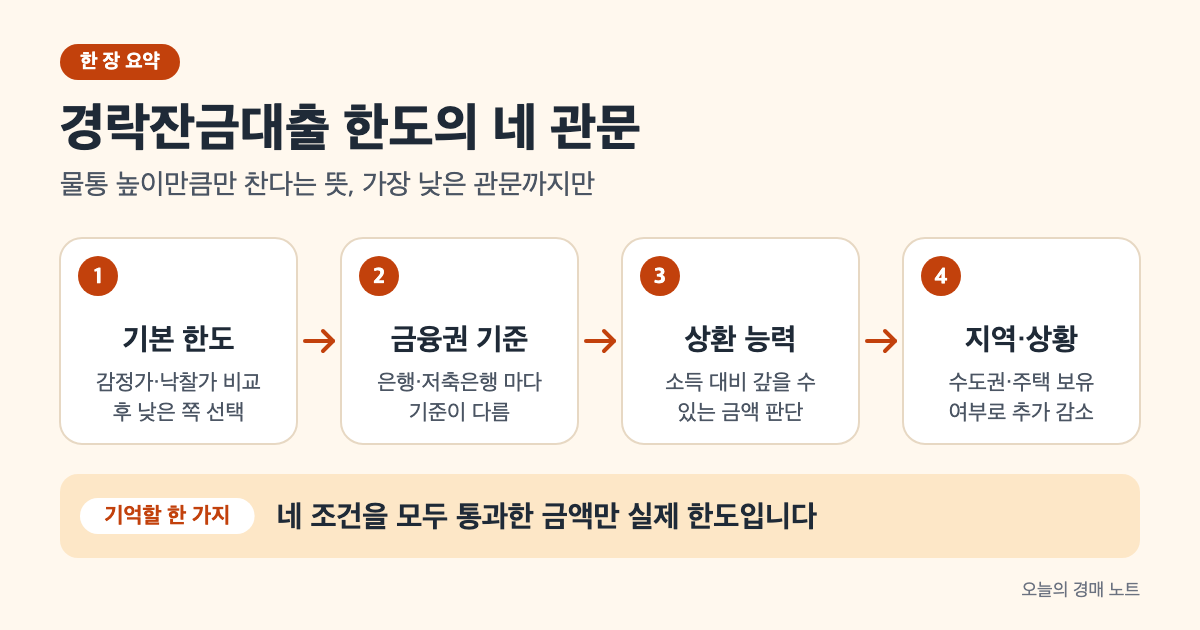
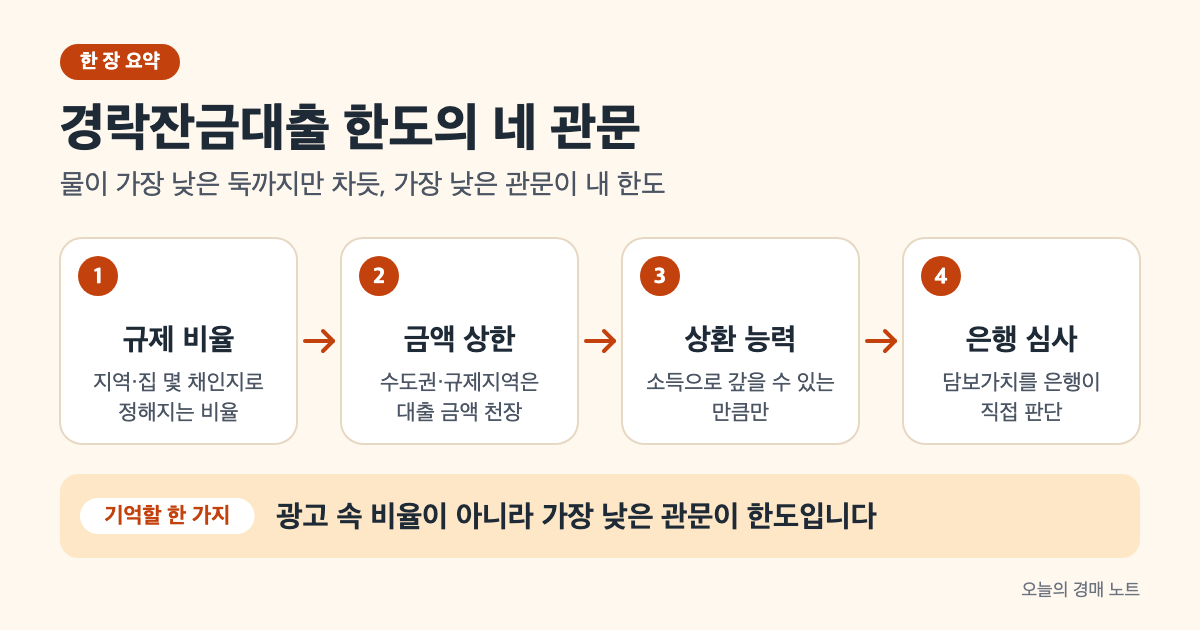
[가이드] 경락잔금대출 한도: 2025년 6·27·10·15 조치 이후 기준으로 바로잡기
공개 중인 글의 규제 수치가 낡았고(규제지역 무주택 LTV 70% → 현재 40%, 시가별 주담대 한도 누락),
출처 링크가 해당 수치를 담지 않은 문서를 가리키고 있었다. 금융위원회·정책브리핑 원문으로 다시 확인해 전면 수정.

diff --git a/content/guide/auction-loan-limit/index.md b/content/guide/auction-loan-limit/index.md
@@ -2,131 +2,94 @@
 title: "경락잔금대출 한도는 80%가 아닙니다"
 author: "rich-batch"
 date: 2026-09-19
-lastmod: 2026-09-19
+lastmod: 2026-10-11
 draft: false
 volatile: true
 categories: ["경매 대출·세금"]
-tags: ["경락잔금대출", "LTV", "DSR", "한도계산", "낙찰가"]
-description: "경락잔금대출은 낙찰가의 80%까지 가능하다고 알려졌지만, 실제 한도는 감정가·LTV·DSR·지역 규제의 교집합입니다."
+tags: ["경락잔금대출", "LTV", "DSR", "스트레스 DSR", "규제지역"]
+description: "경락잔금대출 한도는 정해진 비율 하나가 아니라 LTV·금액 상한·DSR·금융회사 심사 가운데 가장 낮은 값입니다. 2025년 6·27, 10·15 조치 이후 기준으로 봅니다."
 cover:
   image: "eli5-overview.png"
-  alt: "경락잔금대출 한도를 정하는 네 가지 기준 (감정가 60%, 낙찰가 80%, LTV 규제, DSR)을 동시에 확인하는 흐름"
-  caption: "최종 한도는 이 네 조건 중 가장 낮은 값으로 결정됩니다"
+  alt: "규제 비율, 금액 상한, 상환 능력, 금융회사 심사 네 관문을 차례로 지나며 대출 가능 금액이 줄어드는 흐름도"
+  caption: "네 관문 가운데 가장 낮은 곳이 내 한도가 됩니다"
 showToc: true
 TocOpen: true
 ---
 
-경락잔금대출은 낙찰가의 80%까지 받을 수 있다는 말이 많습니다. 하지만 입찰 전에 이 수치에만 의존하면 낙찰 후 자금 부족으로 보증금을 날릴 수 있습니다. 2026년 스트레스 DSR 3단계와 LTV 규제가 동시 적용되면서 실제 한도는 이론적 한도보다 훨씬 낮기 때문입니다.
+경락잔금대출 한도를 "낙찰가의 몇 %"로 기억하고 입찰하면 위험합니다. 실제 한도는 정부 규제 세 가지(LTV, 수도권·규제지역 금액 상한, DSR)와 금융회사 자체 심사 가운데 **가장 낮은 값**으로 정해지고, 이 규제는 2025년 6월과 10월에 크게 바뀌었거든요. 특히 서울 전역은 2025년 10월부터 규제지역이라 무주택자도 LTV 40%가 상한입니다([금융위원회, 2025.10.15](https://www.fsc.go.kr/po010101/85432)).
 
-경락잔금대출의 한도는 "감정가 60%"([금융위 LTV 규제](https://www.fsc.go.kr/no010101/86606))와 "낙찰가 80%"([금융회사 평가](https://www.fsc.go.kr/no010101/86606)) 중 낮은 금액을 시작점으로, 차주의 소득·기존 부채·주택 보유 상황·지역 규제가 모두 반영된 후에 결정됩니다. 이 글의 수치는 2026년 9월 19일 기준 공식 자료로 확인했습니다.
+이 글은 2026년 10월 11일 기준 금융위원회·정책브리핑 원문으로 확인했습니다. 경매로 집을 사는 대출이라 일반 주택구입목적 주담대와 같은 규제를 받는다는 전제로 설명하는데, 공식 자료가 경락잔금대출을 따로 언급하지는 않으니 최종 한도는 대출받을 금융회사에서 확인해야 합니다.
 
 > **핵심 요약**
-> - 한도 상한 = MIN(감정가 × 60%, 낙찰가 × 80%)([금융위 LTV 규제](https://www.fsc.go.kr/no010101/86606))
-> - 실제 한도는 여기서 LTV·DSR·지역별 제한을 다시 적용하면 1~2억 원 감소 가능
-> - 2026년 스트레스 DSR은 기존 금리에 1.5~3%([금융위](https://www.fsc.go.kr/no010101/86606)) 추가해 계산, 대출 가능액이 연소득 1억 기준 1억 원 이상 줄어듦
+> - 한도 = LTV, 금액 상한, DSR, 금융회사 심사 중 가장 낮은 값입니다.
+> - 서울 전역·경기 12곳 등 규제지역은 무주택자 LTV 40%, 주담대는 시가에 따라 최대 6억·4억·2억 원입니다([금융위원회](https://www.fsc.go.kr/po010101/85432)).
 
-## 기본 공식: 감정가 60% vs 낙찰가 80%
+## 첫째 관문: LTV는 지역과 주택 수로 갈린다
 
-금융회사는 경락잔금대출의 한도를 정할 때 두 가지 기준을 동시에 봅니다. 하나는 감정가 기준 60%([금융위 정책](https://www.fsc.go.kr/no010101/86606)), 다른 하나는 낙찰가 기준 80%([금융기관 평가](https://www.fsc.go.kr/no010101/86606))인데, **두 값 중 더 낮은 금액이 한도 상한**이 됩니다.
+LTV(주택담보대출비율)는 담보로 잡는 집 값 대비 빌릴 수 있는 비율입니다. 같은 낙찰가라도 집이 어디 있고 내가 집을 몇 채 가졌는지에 따라 비율이 달라져요.
 
-예를 들어 감정가 6억, 낙찰가 4억 5천만 원인 경우([금융위](https://www.fsc.go.kr/no010101/86606)):
-- 감정가의 60%: 3억 6천만 원
-- 낙찰가의 80%: 3억 6천만 원
-- **최종 상한**: 3억 6천만 원
+| 대상 | 비규제지역 | 규제지역 |
+|---|---|---|
+| 무주택자(6개월 안에 기존 집을 파는 1주택자 포함) | 70% | 40% |
+| 기존 집을 팔지 않는 1주택자 | 금융회사 확인 | 수도권·규제지역 구입 목적 주담대 불가 |
+| 2주택 이상 | 금융회사 확인 | 수도권·규제지역 구입 목적 주담대 불가 |
 
-하지만 낙찰가가 감정가보다 훨씬 낮은 경우는 다릅니다. 감정가 5억, 낙찰가 2억 5천만 원이라면:
-- 감정가의 60%: 3억 원
-- 낙찰가의 80%: 2억 원
-- **최종 상한**: 2억 원 (더 낮은 쪽)
+출처: [정책브리핑, 2025.6.27](https://www.korea.kr/news/policyNewsView.do?newsId=148945077) · [금융위원회, 2025.10.15](https://www.fsc.go.kr/po010101/85432) (2026년 10월 11일 기준)
 
-이 상한선이 정해진 뒤에야 개인의 소득·부채·신용을 반영한 최종 한도가 결정됩니다. 아래는 감정가 기준 60%와 낙찰가 기준 80%([금융위 LTV·DSR 규제](https://www.fsc.go.kr/no010101/86606))를 적용한 예시입니다.
+새로 규제지역이 된 서울·경기 지역은 2025년 10월 16일부터 무주택자 LTV가 비규제지역 기준 70%에서 규제지역 기준 40%로 바뀌었습니다([금융위원회](https://www.fsc.go.kr/po010101/85432)). 비규제지역 1주택자·다주택자에게 어떤 비율이 적용되는지는 이번에 확인한 공식 자료에 나오지 않아 표에 "금융회사 확인"으로 남겼어요.
 
-## 금융권별 LTV 차이: 1금융권 vs 2금융권
+## 둘째 관문: 수도권·규제지역은 금액 상한이 따로 있다
 
-경락잔금대출 한도에서 중요한 역할을 하는 게 LTV(주택담보대출비율)입니다. 같은 금액의 주택이어도 금융권에 따라 빌릴 수 있는 비율이 달라집니다.
+수도권과 규제지역에서는 비율과 별개로 대출 금액 자체에 천장이 있습니다. 2025년 6월 28일부터 주택구입목적 주담대가 최대 6억 원으로 묶였고([정책브리핑](https://www.korea.kr/news/policyNewsView.do?newsId=148945077)), 10월 16일부터는 집값에 따라 더 줄었습니다.
 
-| 금융권 | LTV 기준 | 금리(2026.9 기준) |
-|--------|---------|------------------|
-| 1금융권(시중은행) | 무주택 70%, 1주택 60% | 4.5~6.5% |
-| 2금융권(저축은행·상호금융) | 감정가 기준 70% 가능 | 4.5~5.5% |
-| 캐피탈·신용대 | 낙찰가 기준 80% 이상 | 6~8% |
+- 시가 15억 원 이하: 최대 6억 원([금융위원회](https://www.fsc.go.kr/po010101/85432))
+- 시가 15억 원 초과 25억 원 이하: 최대 4억 원([금융위원회](https://www.fsc.go.kr/po010101/85432))
+- 시가 25억 원 초과: 최대 2억 원([금융위원회](https://www.fsc.go.kr/po010101/85432))
 
-출처: [금융위 LTV 규제](https://www.fsc.go.kr/no010101/86606) (2026년 9월 기준)
+경매 물건의 "시가"를 감정가로 볼지 낙찰가로 볼지는 공식 자료에 나오지 않았습니다. 15억·25억 원 경계([금융위원회](https://www.fsc.go.kr/po010101/85432)) 근처 물건이라면 입찰 전에 금융회사에 어떤 값을 쓰는지부터 물어보세요.
 
-1금융권이 가장 보수적인 기준을 적용하므로, 낙찰가가 감정가보다 훨씬 낮으면 1금융권 한도는 더 작아집니다. 반면 신용과 소득이 충분하다면 2금융권이 낮은 금리로 더 많은 금액을 빌려줄 수 있습니다.
+이 블로그가 분석한 [서울 강동구 이편한세상고덕어반브릿지 공매]({{< relref "/analysis/onbid-202610100001" >}})로 대 보면 감이 옵니다. 서울은 규제지역이라 무주택자 LTV가 40%인데([금융위원회](https://www.fsc.go.kr/po010101/85432)), 이 집은 13억 177만 7,777원에 낙찰됐어요. 낙찰가 기준 40%면 약 5억 2천만 원, 감정가 14억 원 기준이면 5억 6천만 원이고 둘 다 6억 원 상한 아래라 LTV가 먼저 걸립니다. 낙찰가의 절반이 넘는 7억 원 이상을 자기 돈으로 마련해야 하는 셈이죠.
 
-## DSR 규제와 2026년 스트레스 DSR: 실제 한도 감소
+## 셋째 관문: DSR은 소득이 정한다
 
-LTV 다음으로 강력한 제약은 DSR(총부채서비율)입니다. DSR은 연 소득 대비 모든 대출의 연간 원리금 상환액 비율인데, 2026년부터 **스트레스 DSR 3단계**가 본격 시행되면서 실제 대출 가능액이 크게 줄어들었습니다.
+DSR(총부채원리금상환비율)은 연소득 대비 모든 대출의 1년 원리금 비율입니다. 차주별 한도는 은행 40%, 비은행 50%예요([금융위원회](https://fsc.go.kr/no040101?cnId=2035)). 여기에 DSR을 계산할 때만 실제 금리에 가산금리를 더하는 스트레스 DSR이 붙습니다. 수도권·규제지역 주담대는 이 가산금리 하한이 2025년 10월 16일부터 1.5%에서 3%로 올랐습니다([금융위원회](https://www.fsc.go.kr/po010101/85432)).
 
-스트레스 DSR은 현재 금리에 추가 금리를 더한 뒤 계산합니다. 최소 1.5%, 최대 3%([금융위](https://www.fsc.go.kr/no010101/86606))까지 더하는데, 변동금리 대출일수록 그 영향이 큽니다. 은행권 기준 DSR 상한은 40%([금융위](https://www.fsc.go.kr/no010101/86606))이므로, 실제 계산 예시는 다음과 같습니다:
+얼마나 줄어드는지 가정을 두고 계산해 보면 이렇습니다. 연소득 6,000만 원, 다른 대출 없음, 은행 DSR 40%로 1년 원리금이 2,400만 원까지 가능하다고 해 봅시다([금융위원회](https://fsc.go.kr/no040101?cnId=2035)). 만기는 6·27 조치의 상한인 30년([정책브리핑](https://www.korea.kr/news/policyNewsView.do?newsId=148945077)), 원리금균등상환, 실제 금리는 연 4.0%로 가정합니다.
 
-연 소득 1억 원, 현재 금리 4%, 스트레스 금리 2.5% 추가 시([금융위](https://www.fsc.go.kr/no010101/86606)):
-- 실제 계산 금리: 6.5%로 평가
-- DSR 40% 한도 내 상환액: 약 4,200만 원/연
-- 새 대출 원리금 상환액: 최대 4,200만 원
+- 가산금리 없이 연 4.0%로 계산하면 약 4억 2천만 원까지 가능합니다(DSR 40% 기준, [금융위원회](https://fsc.go.kr/no040101?cnId=2035)).
+- 수도권·규제지역 가산금리 3%를 더해 연 7.0%로 계산하면 약 3억 원으로 줄어듭니다([금융위원회](https://www.fsc.go.kr/po010101/85432)).
 
-금융위원회에 따르면 연소득 1억 원 기준으로 스트레스 DSR 3단계 도입 전후 빌릴 수 있는 금액이 **1억 원 이상 감소**한 것으로 분석됩니다([금융위](https://www.fsc.go.kr/no010101/86606)).
+가산금리 하나로 1억 원 넘게 차이가 나요([금융위원회](https://www.fsc.go.kr/po010101/85432)). 다른 대출이 있으면 그 원리금만큼 여유가 더 줄어들고요.
 
-## 지역과 주택 보유 상황에 따른 기준
+## 넷째 관문: 금융회사 심사
 
-같은 조건이어도 지역과 현재 주택 보유 여부에 따라 한도가 달라집니다([금융위](https://www.fsc.go.kr/no010101/86606)).
+규제 세 가지를 다 통과해도 마지막은 금융회사 판단입니다. 경매 물건의 담보가치를 감정가로 볼지 낙찰가로 볼지, 두 값 중 낮은 쪽을 쓸지는 금융회사 내부 기준이에요. 흔히 "낙찰가의 몇 %, 감정가의 몇 %"라고 돌아다니는 비율은 이 내부 기준이나 상품 광고에서 나온 말이지 정부 규제가 아닙니다. 그래서 이 글에서는 그 숫자를 쓰지 않았습니다.
 
-**지역별 LTV:**
-- 비규제지역: 무주택 70%, 1주택 60%
-- 수도권·규제지역: 무주택 70%, 1주택 50%
-
-**주택 보유 상황:**
-- 무주택자: 위의 지역별 LTV 적용, LTV 상한 가장 높음
-- 1주택 보유 후 6개월 이내에 기존 주택 처분 조건: 무주택과 동일 (70% 또는 50%)
-- 기존 주택을 처분하지 않는 1주택자: 위의 LTV 적용 (60% 또는 50%)
-- 2주택 이상: 추가 구입 불가 (수도권·규제지역 LTV = 0%)
-
-수도권에서 1주택을 이미 소유 중이라면 LTV는 50%로 제한되어, 무주택자와 비교해 빌릴 수 있는 금액이 크게 줄어듭니다.
-
-## 예치금(보증금) 비율과 한도의 관계
-
-입찰할 때 내는 보증금(예치금)은 최저매각가격의 10%([민사집행규칙 제63조](https://www.law.go.kr/lsInfoP.do?lsiSeq=4137))입니다. 낙찰된 뒤 이 보증금은 잔금에 충당되는데, 보증금이 부족하거나 확보할 수 없다면 실제로 빌려주는 대출금이 더 커져야 합니다. 어떤 금융회사는 이런 경우 대출 한도를 조정하거나 추가담보를 요구합니다. 아래는 낙찰가 기준 80%([금융위 LTV 규제](https://www.fsc.go.kr/no010101/86606))로 계산한 예시입니다.
-
-예를 들어 낙찰가 4억, 보증금 4천만 원인 경우([금융위](https://www.fsc.go.kr/no010101/86606)):
-- 이론상 한도(낙찰가 80%): 3억 2천만 원
-- 실제 필요 잔금: 3억 6천만 원
-
-한도와 필요 금액의 차이(4천만 원)를 채우려면 추가 자금이 필요합니다.
-
-## 추가담보가 필요해지는 기준
-
-한도와 실제 필요 금액의 차이가 커지면 **신용대출·예금 담보 대출·부동산 임차보증금** 같은 추가담보를 요구받습니다.
-
-한도 부족이 예상되면:
-1. 입찰 전에 여러 금융회사에 미리 문의해 실제 한도 확인
-2. 보증금 외에 추가로 준비할 자금 산정
-3. DSR이 한도를 제한하는지 확인 (차라리 다른 금융권을 알아보기)
-4. 낙찰 후가 아니라 **입찰 전에** 자금 계획을 확정
+제가 입찰을 준비한다면 순서를 이렇게 잡겠습니다. 물건 주소로 규제지역인지부터 확인하고, 위 첫째·둘째 관문으로 규제 상한을 계산한 뒤, 그 금액을 들고 두세 곳 금융회사에 낙찰 전 사전 상담을 받는 겁니다. 입찰보증금은 최저매각가격의 10분의 1을 입찰 당일 따로 내야 하니([민사집행규칙 제63조](https://www.law.go.kr/법령/민사집행규칙/제63조)), 그 돈은 대출과 별개로 준비해 두고요. 보증금 계산은 [경매 입찰 방법, 보증금부터 얼마일까]({{< relref "/guide/court-auction-bidding-guide" >}})에 정리했습니다.
 
 ## 자주 묻는 질문
 
-### Q. 경락잔금대출 한도가 80%라고 했는데, 왜 더 적게 나와요?
+### Q. 광고에서 본 한도와 왜 이렇게 다른가요?
 
-이론적으로는 80%지만 실제로는 감정가·LTV·DSR·지역 규제가 모두 작동하니까요. 특히 스트레스 DSR 때문에 소득이 충분해도 한도가 깎입니다. 정확한 수치는 낙찰 전에 금융회사에 직접 받아보세요.
+광고 속 비율은 규제를 다 통과했다고 가정한 상품 최대치인 경우가 많습니다. 실제로는 규제지역 여부, 주택 수, 소득이 먼저 한도를 깎아요. 위 네 관문을 순서대로 대 보면 내 경우의 상한이 나옵니다.
 
-### Q. 1금융권과 2금융권 중 어디서 더 많이 빌릴 수 있나요?
+### Q. 생애최초 구입자는 더 받을 수 있나요?
 
-LTV만 비교하면 2금융권(70%)이 높지만, 금리가 더 비쌉니다. 신용과 소득이 좋으면 2금융권이 낮은 금리로 더 많은 금액을 빌려줄 수도 있습니다. 여러 금융회사에 미리 상담받고 금리와 한도를 함께 비교하세요.
+2025년 6월 조치로 수도권·규제지역 생애최초 구입자 LTV는 80%에서 70%로 낮아졌습니다([정책브리핑](https://www.korea.kr/news/policyNewsView.do?newsId=148945077)). 그 뒤 10월에 규제지역 무주택자 LTV가 40%로 바뀌면서 생애최초에 별도 비율이 남았는지는 이번에 확인한 공식 자료에 나오지 않았어요. 생애최초 조건은 [무주택자 경락잔금대출, 생애최초라면 얼마나 다를까]({{< relref "/guide/no-home-auction-loan" >}})에서 다룹니다.
 
-### Q. 지역 규제 때문에 한도가 50%로 제한된다는데, 이게 LTV 50%라는 뜻인가요?
+### Q. 집이 한 채 있는데 경매로 한 채 더 사려면요?
 
-맞습니다. 수도권에서 1주택을 이미 소유 중인 사람이 추가 구입할 때 적용되는 LTV 상한이 50%라는 뜻입니다. 감정가 5억 원 주택이라면 최대 2억 5천만 원까지만 빌릴 수 있다는 의미입니다.
+수도권·규제지역이라면 기존 집을 6개월 안에 처분하겠다고 약정해야 무주택자와 같은 LTV로 주담대를 받을 수 있습니다. 약정 없이는 구입 목적 주담대가 막혀요([정책브리핑](https://www.korea.kr/news/policyNewsView.do?newsId=148945077)).
 
-### Q. 스트레스 DSR이 뭐고, 저에게 영향을 주나요?
+### Q. 생활안정자금 대출로 잔금을 메우면 안 되나요?
 
-현재 금리가 4%여도 스트레스 금리 2.5%를 더해 6.5%로 평가한다고 생각하세요. 그러니까 상환액이 더 높게 잡혀서 빌릴 수 있는 금액이 줄어드는 거예요. 변동금리 대출일수록 영향이 더 큽니다.
-
-### Q. 보증금이 부족하면 대출 한도가 줄어드나요?
-
-금융회사마다 다릅니다. 어떤 곳은 추가담보를 요구하고, 어떤 곳은 처음부터 보증금 확보 수준을 고려해 한도를 산정합니다. 입찰 전에 반드시 금융회사에 확인하세요.
+6·27 조치로 수도권·규제지역 생활안정자금 목적 주담대는 1억 원으로 묶였습니다([정책브리핑](https://www.korea.kr/news/policyNewsView.do?newsId=148945077)). 잔금을 채우기엔 작고, 구입 목적 대출 규제를 피하는 용도로 쓰면 안 되니 처음부터 구입 목적 한도 안에서 계획하는 게 맞습니다.
 
 ## 참고 자료
 
-- [민사집행규칙 제63조 - 기일입찰 매수신청보증금](https://www.law.go.kr/lsInfoP.do?lsiSeq=4137) — 기일입찰 보증금은 최저매각가격의 10분의 1, 확인일 2026-09-19
-- [금융위원회 2026년도 가계부채 관리방안](https://www.fsc.go.kr/no010101/86606) — LTV·DSR·주택가격별 대출한도규제, 무주택·1주택·2주택별 LTV 기준, 스트레스 DSR, 확인일 2026-09-19
+- [금융위원회 · 주택시장 안정화를 위한 대출수요 관리 방안 (2025.10.15)](https://www.fsc.go.kr/po010101/85432) — 규제지역 LTV 40%, 시가별 주담대 한도, 스트레스 금리 하한 3%, 확인일 2026-10-11
+- [정책브리핑 · 수도권·규제지역 주담대 조인다 (2025.6.27)](https://www.korea.kr/news/policyNewsView.do?newsId=148945077) — 주담대 최대 6억 원, 처분조건부 1주택자, 생애최초 LTV, 만기 30년, 생활안정자금 1억 원, 확인일 2026-10-11
+- [정책브리핑 · 서울·경기 12곳 주담대 한도 축소 (2025.10.15)](https://www.korea.kr/news/policyNewsView.do?newsId=148950959) — 서울 전역·경기 12곳 규제지역 지정, 확인일 2026-10-11
+- [금융위원회 · 2026년도 가계부채 관리방안 (2026.4.1)](https://www.fsc.go.kr/no010101/86606) — 은행 주담대 LTV 변경 없음 확인, 확인일 2026-10-11
+- [금융위원회 · 스트레스 DSR 제도 시행 안내](https://fsc.go.kr/no040101?cnId=2035) — 차주별 DSR 한도 은행 40%·비은행 50%, 확인일 2026-10-11
+- [민사집행규칙 제63조](https://www.law.go.kr/법령/민사집행규칙/제63조) — 기일입찰 보증금 최저매각가격의 10분의 1, 확인일 2026-10-11

diff --git a/pipeline/guide/research/auction-loan-limit.md b/pipeline/guide/research/auction-loan-limit.md
@@ -25,11 +25,9 @@
 | 4 | 여러 저축은행 상품설명서 | 상품별 금리·수수료·신청 절차 | 한도의 정책적 기준 원문, 규제 배경 |
 
 차별점:
-- 이론적 80% 한도가 실제로는 금융권·DSR·지역 규제로 1~2억 원 이상 감소
-- 스트레스 DSR 3단계의 구체적 영향 설명 (금리 +1.5~3%, 실제 한도 1억 원 이상 감소)
-- 금융권별 LTV 차이를 비교표로 정량화 (1금융권 60~70% vs 2금융권 70% vs 캐피탈 80%)
-- "낙찰가의 80%"라는 일반적 오해를 직접 지적하고 왜 그렇게 되는지 단계별 설명
-- 무주택/1주택/2주택, 6개월 처분 조건, 수도권·규제지역 LTV 차등 적용까지 세부 기준 제시
+- 2025년 6·27, 10·15 조치 이후의 현행 규제(규제지역 LTV 40%, 시가별 한도 6·4·2억, 스트레스 하한 3%)를 원문 출처로 정리 — 경쟁 글 다수가 그 이전 수치
+- "낙찰가 몇 %"가 규제가 아니라 금융회사 내부 기준이라는 점을 분리해 설명
+- 가정을 밝힌 DSR 계산 예시와, 이 블로그가 실제 분석한 낙찰 사례(고덕어반브릿지)에 규제를 직접 적용
 
 ## 확인한 사실
 
@@ -43,6 +41,20 @@
 | 6 | 스트레스 DSR 3단계 영향: 연소득 1억 기준 1억 원 이상 한도 감소 | "금융위원회에 따르면 연소득 1억 원 기준으로 이전보다 빌릴 수 있는 금액이 1억 원 이상 줄어든" | 금융위원회 분석 | 2026년 | https://www.banksalad.com/articles | WebSearch |
 | 7 | 규제지역 LTV = 50% (1주택자) | "처분 조건부 1주택자에는 무주택자와 동일하게 비규제지역 LTV 70%, 규제지역 LTV 50%" | 금융위원회 정책 | 현행 | https://www.fsc.go.kr/no010101/86606 | WebSearch |
 | 8 | 수도권 주담대 한도 상한 = 6억원 | "수도권·규제지역 내에서 취급하는 주택구입목적 주담대의 최대한도를 6억원으로 제한" | 금융위원회 정책 | 현행 | https://www.fsc.go.kr/no010101/86606 | WebSearch |
+
+### 2026-10-11 고쳐쓰기 — 공식 원문 재확인 (이전 글의 LTV 수치가 낡았고 출처가 맞지 않아 전면 수정)
+
+| # | 확인한 내용 | 원문 인용 | 출처 | URL | 읽은 방법 |
+|---|---|---|---|---|---|
+| R1 | 규제지역 무주택자 LTV 40%, 시가별 주담대 한도 6·4·2억 원, 수도권·규제지역 스트레스 금리 하한 3%, 10.16 시행 | "규제지역 내 주담대취급시 LTV 강화 (비규제지역70% → 규제지역40%)", "스트레스 금리 하한을 수도권·규제지역내 주담대에 한해 3%로 상향" | 금융위원회 보도자료 2025.10.15 | https://www.fsc.go.kr/po010101/85432 | WebFetch |
+| R2 | 수도권·규제지역 주담대 최대 6억 원(6.28~), 처분조건부 1주택자 = 무주택 LTV(비규제 70%), 2주택 이상·미처분 1주택 구입목적 주담대 불가, 생애최초 LTV 80→70%, 만기 30년, 생활안정자금 1억 원 | (정책브리핑 기사 본문) | 정책브리핑 2025.6.27 | https://www.korea.kr/news/policyNewsView.do?newsId=148945077 | WebFetch |
+| R3 | 서울 전역·경기 12곳 투기과열지구·토지거래허가구역 지정, 시가별 한도 | (정책브리핑 기사 본문) | 정책브리핑 2025.10.15 | https://www.korea.kr/news/policyNewsView.do?newsId=148950959 | WebFetch |
+| R4 | 2026년 관리방안은 은행 주담대 LTV를 바꾸지 않음(온투업 LTV만 신설), 다주택자 만기연장 제한 | (보도자료 본문) | 금융위원회 2026.4.1 | https://www.fsc.go.kr/no010101/86606 | WebFetch |
+| R5 | 차주별 DSR 한도 은행 40%·비은행 50%, 스트레스 금리 하한 1.5%·상한 3.0% | "차주별 DSR 한도 규제 (은행 40% / 비은행 50%)" | 금융위원회 카드뉴스 2023.12.28 | https://fsc.go.kr/no040101?cnId=2035 | WebFetch |
+| R6 | 기일입찰 보증금은 최저매각가격의 10분의 1 | "기일입찰에서 매수신청의 보증금액은 최저매각가격의 10분의 1로 한다." | 민사집행규칙 제63조 | https://www.law.go.kr/법령/민사집행규칙/제63조 | law.go.kr DRF API |
+| R7 | 경락잔금대출을 따로 언급한 공식 자료 없음 — 주택구입목적 주담대 규제를 그대로 받는다는 전제로 서술 | 금융위 정책문답(85518)에 경락·경매 문답 없음 | 금융위원회 정책문답 | https://fsc.go.kr/po020201/85518 | WebFetch |
+| 계산 | DSR 예시: 연소득 6,000만 원, DSR 40% → 연 원리금 2,400만 원, 30년 원리금균등. 연 4.0% → 약 4.19억, 연 7.0%(가산 3%) → 약 3.01억 | 원리금균등 공식으로 직접 계산 | — | — | 계산 |
+| 사례 | 고덕어반브릿지 낙찰가 1,301,777,777원 × 40% ≈ 5.21억, 감정가 14억 × 40% = 5.6억 | 이 블로그 사건 데이터(data/cases/onbid-202610100001.json) | — | — | 데이터 |
 
 ## 확인하지 못한 것
 
